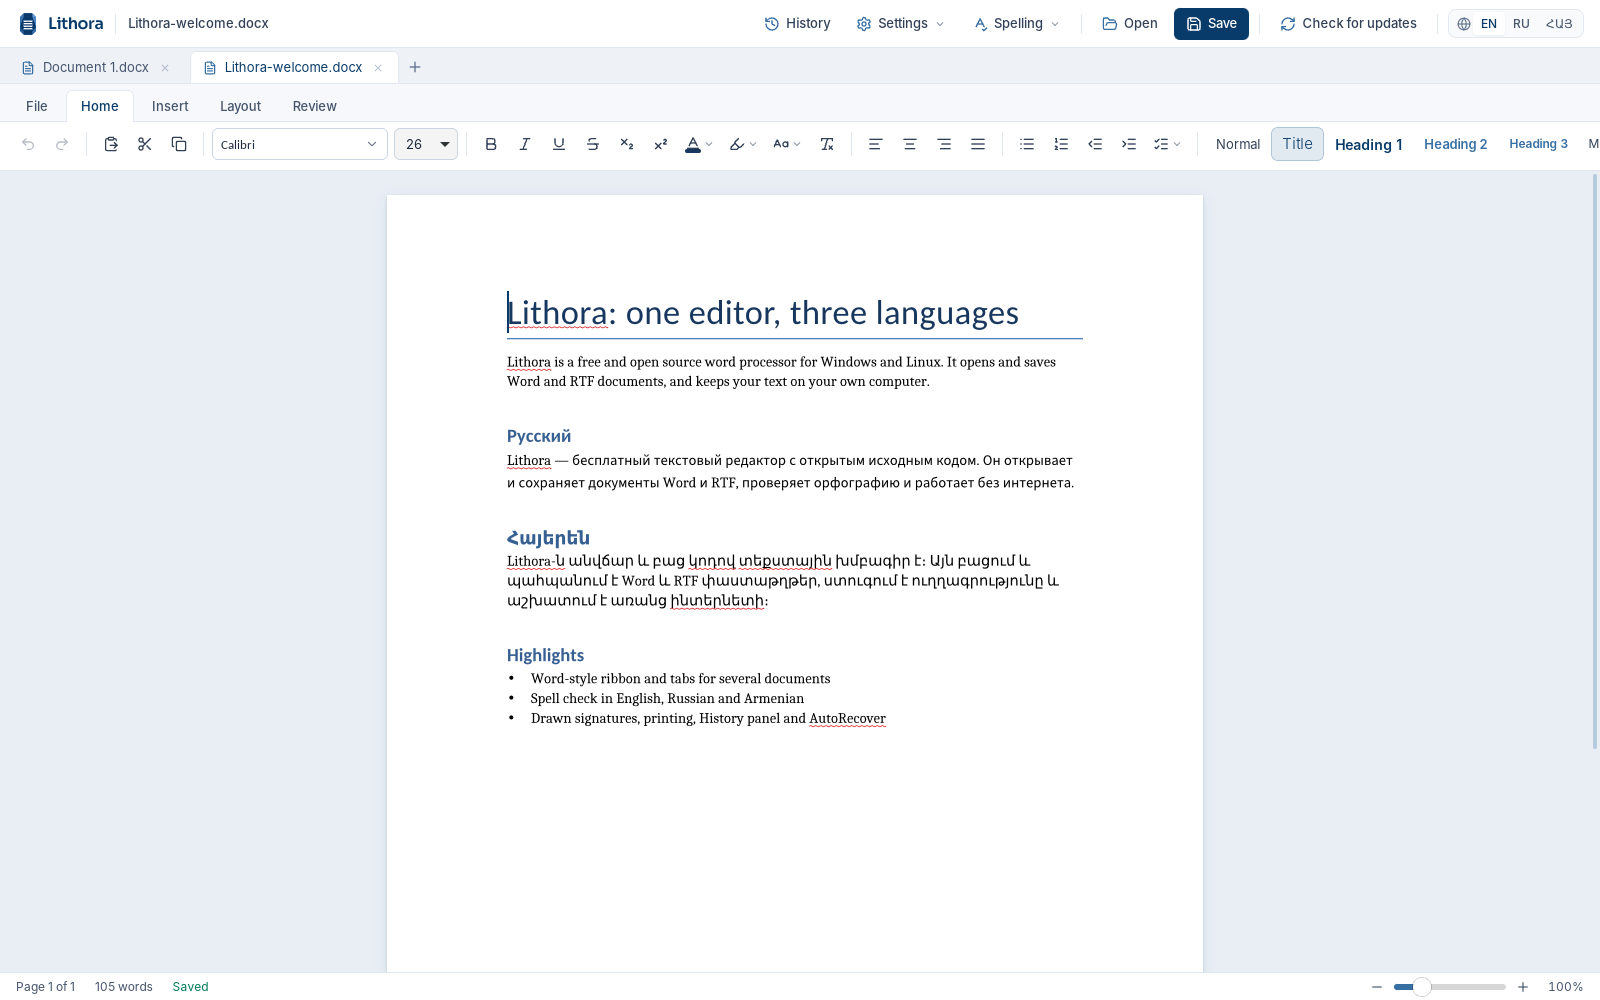
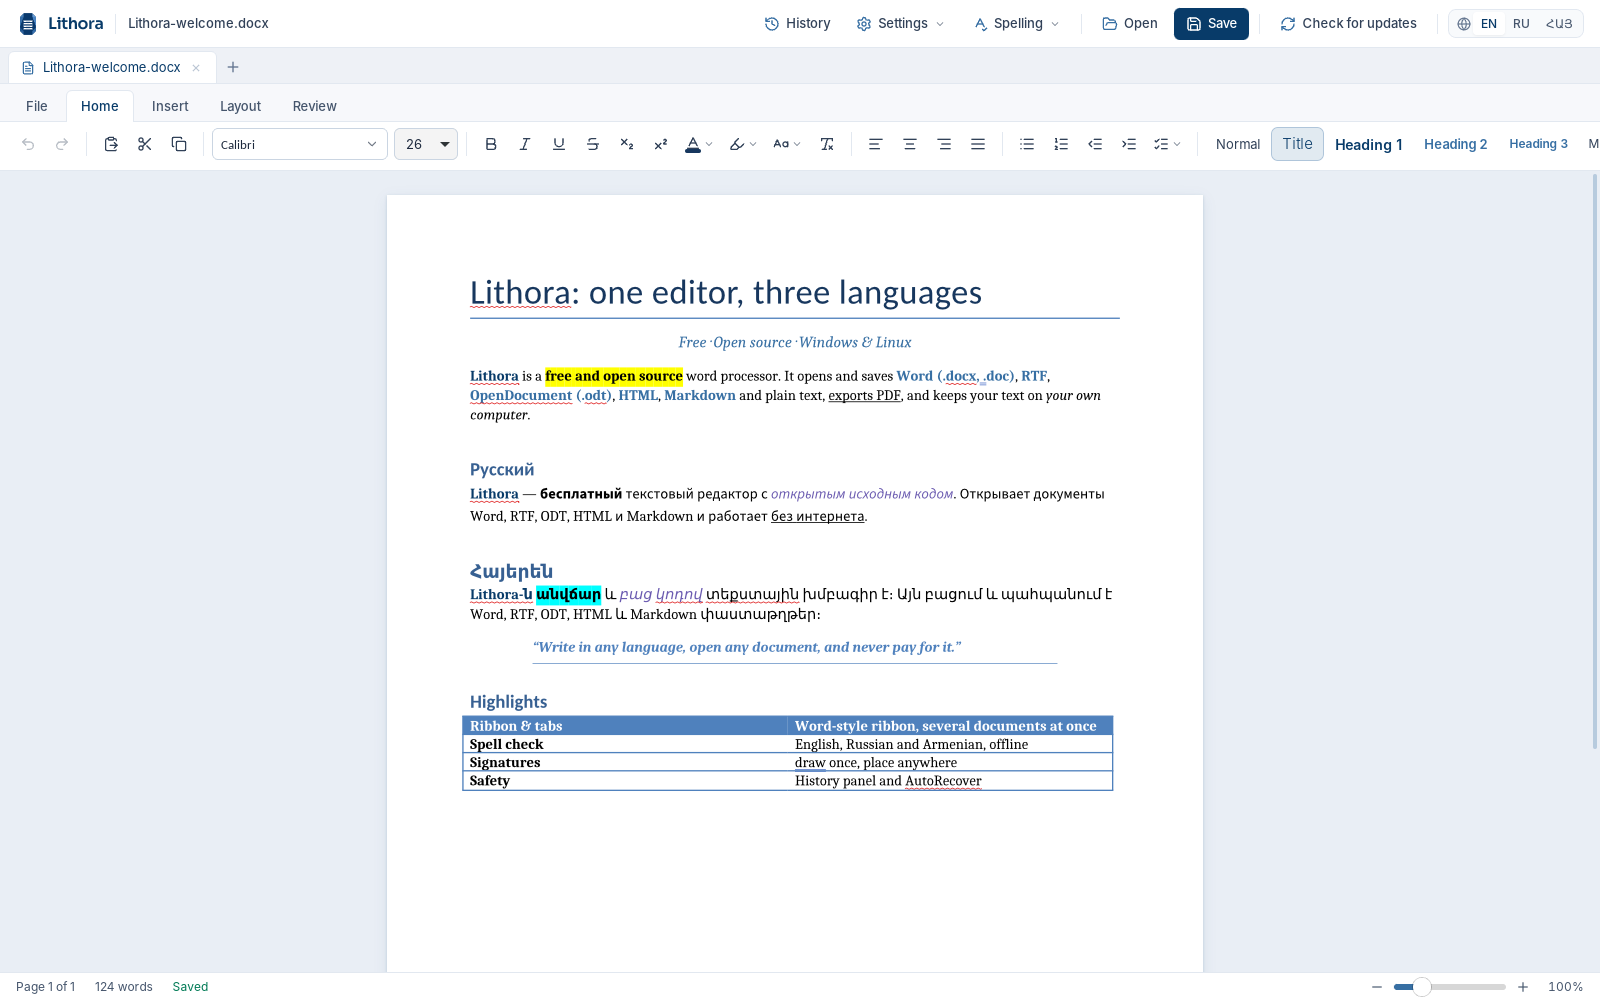
List all supported formats in the README and screenshot
The tagline and the sample page now name Word, RTF, OpenDocument, HTML,
Markdown and text, plus PDF export. The sample page also shows richer
formatting: colors, highlights, a quote and a table.

Claude-Session: https://claude.ai/code/session_015wNScknYWD1U36h2mo9GuA

Changed region(s): [[0.2812, 0.279, 0.7188, 0.806], [0.0312, 0.062, 0.2188, 0.093], [0.0625, 0.961, 0.0938, 0.992]]

diff --git a/index.html b/index.html
@@ -4,7 +4,7 @@
     <meta charset="UTF-8" />
     <meta name="viewport" content="width=device-width, initial-scale=1.0" />
     <title>Lithora</title>
-    <meta name="description" content="Lithora: a free, open source word processor for Windows and Linux. Opens and saves Word and RTF documents, with English, Russian and Armenian built in." />
+    <meta name="description" content="Lithora: a free, open source word processor for Windows and Linux. Opens and saves Word, RTF, OpenDocument, HTML, Markdown and text files, with English, Russian and Armenian built in." />
     <link rel="icon" type="image/svg+xml" href="/logo.svg" />
     <link rel="preconnect" href="https://fonts.googleapis.com">
     <link rel="preconnect" href="https://fonts.gstatic.com" crossorigin>

diff --git a/README.md b/README.md
@@ -6,7 +6,8 @@
 
 <p align="center">
   <strong>A free and open source word processor for Windows and Linux.</strong><br>
-  Open, edit and save Word and RTF documents, with English, Russian and Armenian built in.
+  Open, edit and save Word (.docx, .doc), RTF, OpenDocument (.odt), HTML, Markdown and text files,<br>
+  export PDF, and write in English, Russian and Armenian.
 </p>
 
 <p align="center">
